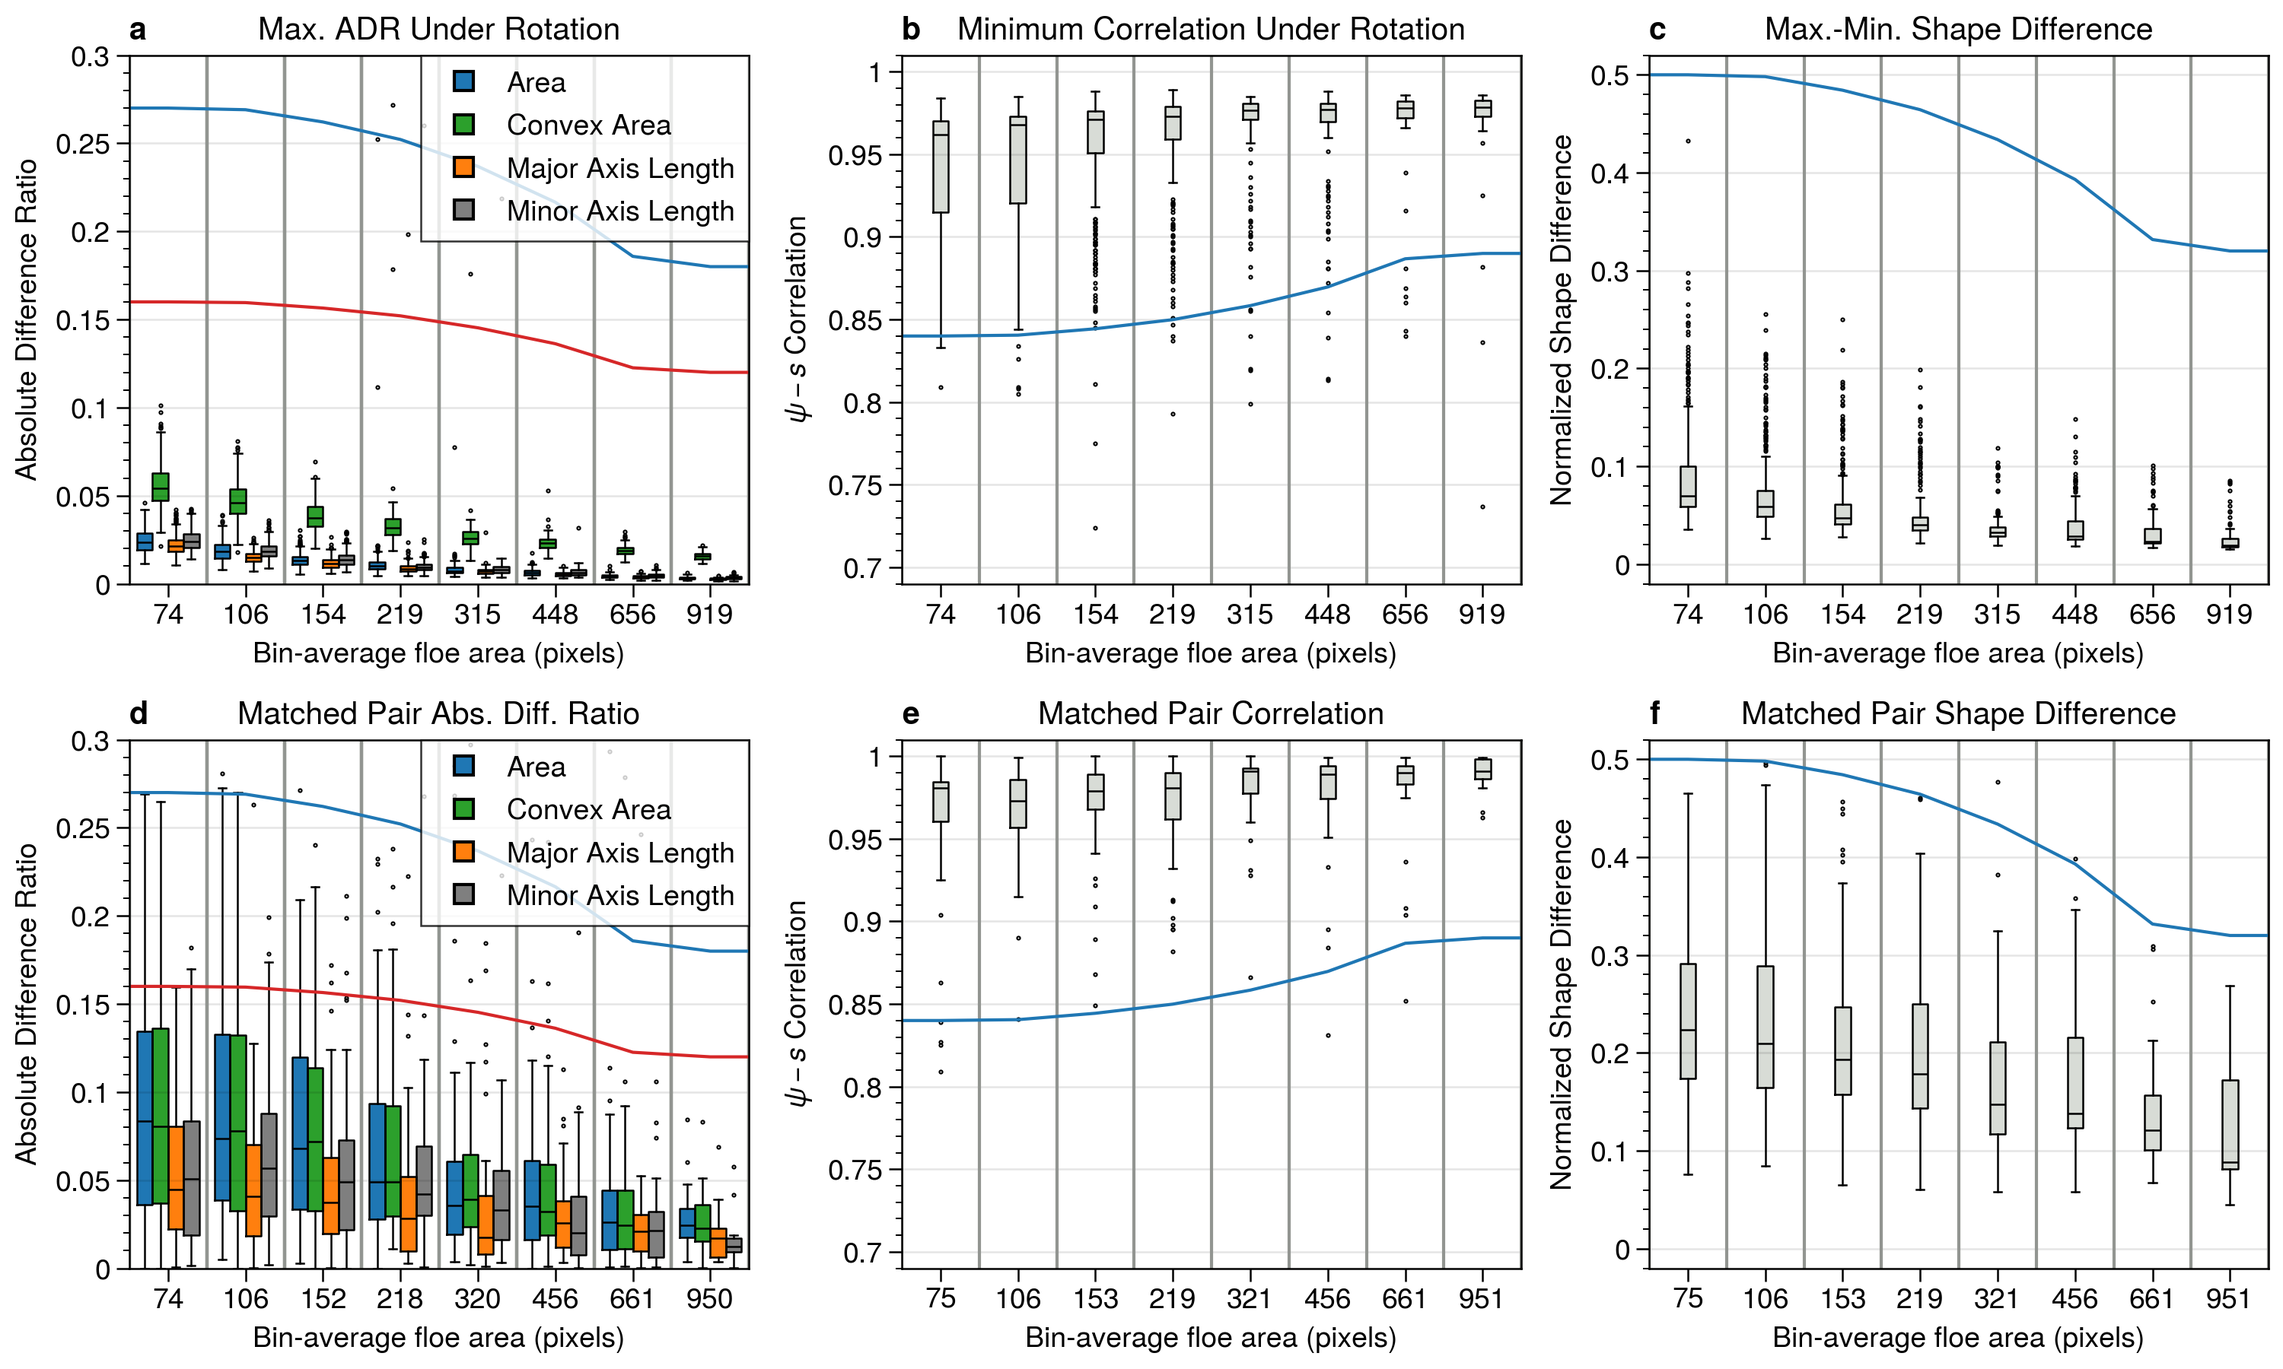
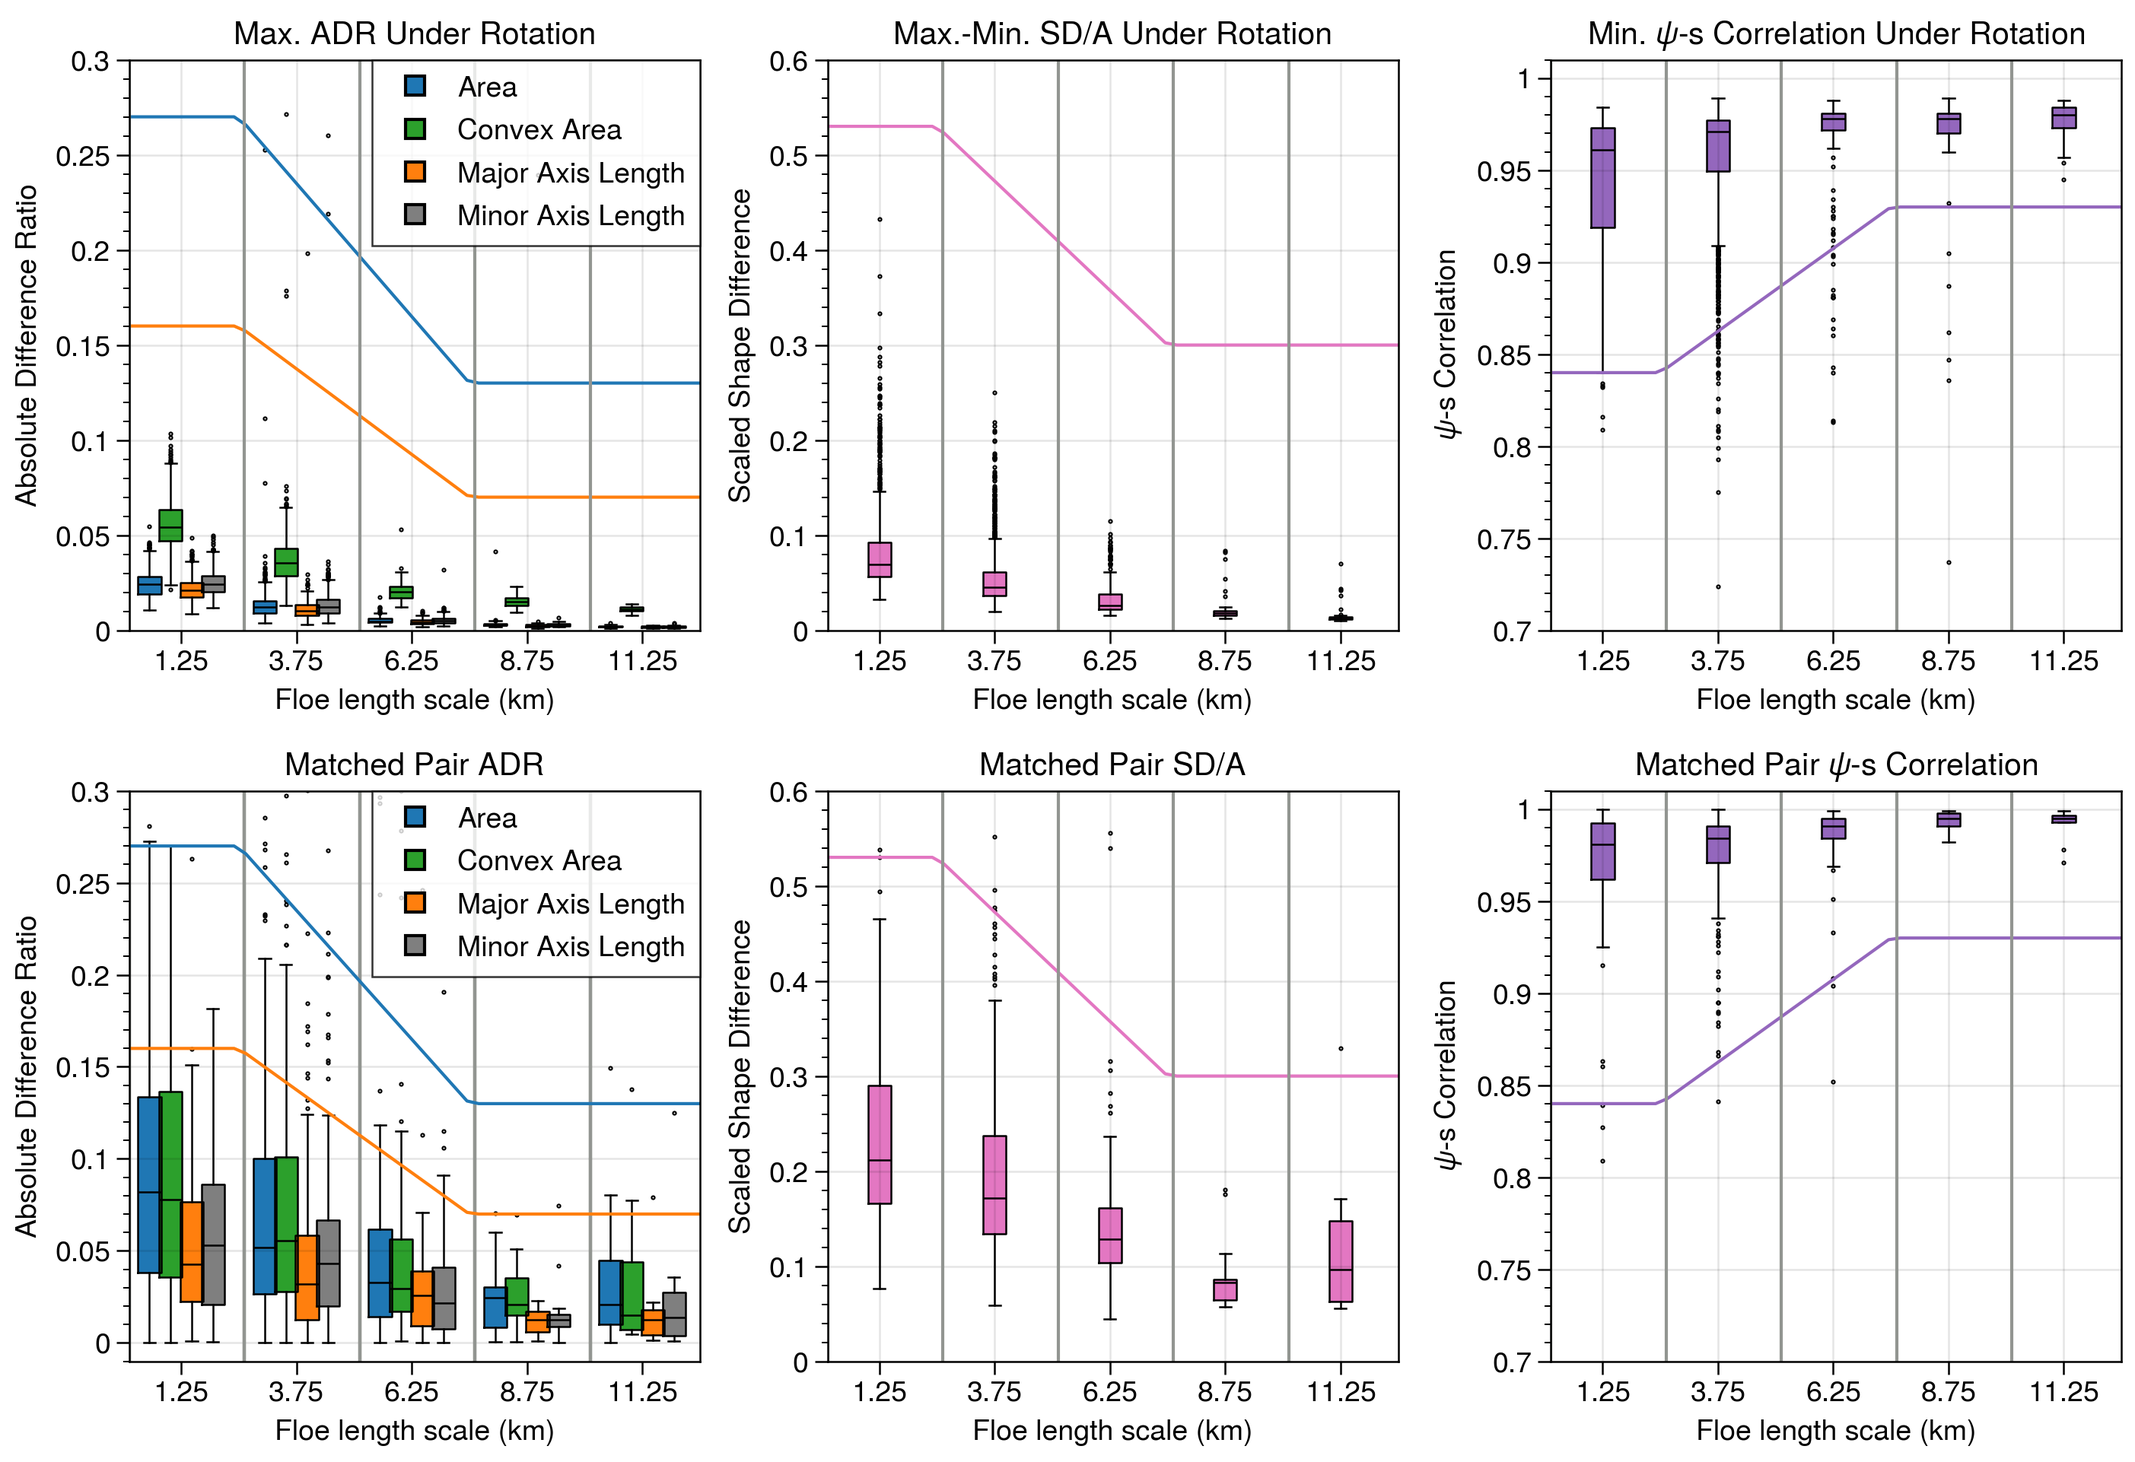
updating style of figures

diff --git a/scripts/plot_adr_sd_psi_s_results.py b/scripts/plot_adr_sd_psi_s_results.py
@@ -3,8 +3,12 @@ import os
 import ultraplot as pplt
 import numpy as np
 
+#### Load Data ####
 # Define the area bin edges
-bins = np.logspace(1, 4, base=10, num=20)
+# bins = np.logspace(1, 4, base=10, num=20)
+# Using length scale bin instead
+bins = np.arange(0, 100, 10)
+bin_centers = 0.5 * (bins[1:] + bins[:-1])
 plot_range = (5.5, 13.5)
 
 # Load floe property tables. First need to run get_floe_property_tables.jl.
@@ -31,7 +35,6 @@ df_terra_props.rename({'label': 'terra_label', 'cloud_fraction': 'terra_cloud_fr
 # Get test/train index data
 df_testtrain = pd.read_csv('../data/validation_dataset_testtrain_split.csv').rename({'Unnamed: 0': 'case'}, axis=1)
 df_testtrain['case_number'] = [str(x).zfill(3) for x in df_testtrain['case_number']]
-
 
 #### Load the rotation data ######
 # First need to run the julia script rotation_test_floe_shapes_ADR.jl
@@ -62,7 +65,9 @@ df_min.columns = df_min.add_prefix('min_', axis=1).columns
 df_init = df_all.loc[df_all.rotation==0, ['floe_id', 'case', 'area', 'L', 'convex_area', 'major_axis_length',
        'minor_axis_length']].set_index('floe_id')
 df_rotation = pd.merge(df_init, df_max, left_index=True, right_index=True).merge(df_min, left_index=True, right_index=True)
-df_rotation['area_bin'] = np.digitize(df_rotation['area'], bins)
+df_rotation['L'] = np.sqrt(df_rotation['area'])
+# df_rotation['area_bin'] = np.digitize(df_rotation['area'], bins)
+df_rotation['length_bin'] = np.digitize(df_rotation['L'], bins)
 
 # Divide into testing and training datasets
 training_idx = df_testtrain.loc[df_testtrain.satellite == 'aqua', ['case_number', 'training']].set_index('case_number')
@@ -70,13 +75,11 @@ df_rotation['training'] = False
 df_rotation.loc[training_idx.loc[df_rotation['case']].values.squeeze(), 'training'] = True
 df_rot = df_rotation.loc[df_rotation.training, :].copy()
 
-rotated_bin_count = df_rot[['area_bin', 'area']].groupby('area_bin').agg(['mean', 'count'])
+rotated_bin_count = df_rot[['length_bin', 'L']].groupby('length_bin').agg(['mean', 'count'])
 rotated_bin_count.columns = ['_'.join(col).strip() for col in rotated_bin_count.columns.values]
-
 
 #### Load the matched pairs data ######
 # First need to run the julia scripts matched_pairs_test_floe_shapes.jl and get_floe_property_tables.jl
-
 data = []
 for fname in os.listdir('../data/matched_pairs_test/'):
     if '.csv' in fname:
@@ -93,7 +96,7 @@ df_matched['normalized_shape_difference'] = df_matched['minimum_shape_difference
 df_matched = df_matched.loc[df_matched.area > 50]
 df_matched["L"] = np.sqrt(df_matched.area)
 
-df_matched['area_bin'] = np.digitize(df_matched['area'], bins)
+df_matched['length_bin'] = np.digitize(df_matched['L'], bins)
 df_matched = df_matched.merge(
     df_aqua_props, left_on=['case', 'aqua_label'], right_on=['case', 'aqua_label']).merge(
     df_terra_props, left_on=['case', 'terra_label'], right_on=['case', 'terra_label'])
@@ -102,92 +105,181 @@ df_matched = df_matched.merge(
 training_idx = df_testtrain.loc[df_testtrain.satellite == 'aqua', ['case_number', 'training']].set_index('case_number')
 df_matched['training'] = training_idx.loc[df_matched['case']].values
 
-df_mg = df_matched.loc[df_matched.training, :].copy()
-
-matched_bin_count = df_matched[['area_bin', 'area']].groupby('area_bin').agg(['mean', 'count'])
+df_mg = df_matched.loc[df_matched.training & (df_matched[['terra_cloud_fraction', 'aqua_cloud_fraction']].max(axis=1) < 0.4), :].copy()
+   
+matched_bin_count = df_matched[['length_bin', 'L']].groupby('length_bin').agg(['mean', 'count'])
 matched_bin_count.columns = ['_'.join(col).strip() for col in matched_bin_count.columns.values]
 
 
-#### Plot ####
-fig, axs = pplt.subplots(width=10, height=6, nrows=2, ncols=3, share=False)
+
+#### Settings #####
+n_min = 20
+length_min = 10
+length_max = 30
+xlims = (0.5, 50)
+x = np.linspace(xlims[0], xlims[1], 50)
+
+#### Threshold Functions #####
+def piecewise_threshold(x, x0, x1, y0, y1):
+    if x < x0:
+        return y0
+    elif x > x1:
+        return y1
+    else:
+        return (y1 - y0)/(x1 - x0)*(x - x1) + y1
+        
+# Update values below based on the calibration results (99th percentile for above / below value)
+adr_area_threshold = lambda x: np.array([piecewise_threshold(y, x0=length_min, x1=length_max, y0=0.27, y1=0.13) for y in x])
+adr_convex_area_threshold = lambda x: np.array([piecewise_threshold(y, length_min, length_max, 0.27, 0.13) for y in x])
+adr_major_axis_threshold = lambda x: np.array([piecewise_threshold(y, length_min, length_max, 0.16, 0.07) for y in x])
+adr_minor_axis_threshold = lambda x: np.array([piecewise_threshold(y,  length_min, length_max, 0.17, 0.11) for y in x])
+scaled_shape_difference_threshold = lambda x: np.array([piecewise_threshold(y, length_min,  length_max, 0.53, 0.30) for y in x])
+psi_s_corr_threshold = lambda x: np.array([piecewise_threshold(y, length_min,  length_max, 0.84, 0.93) for y in x])
+
+
+#### Plotting
+fig, axs = pplt.subplots(nrows=2, ncols=3, share=False)
+
+col_means = rotated_bin_count.loc[:, 'L_mean'].round(2)
+col_counts = rotated_bin_count.loc[:, 'L_count']
+xlims = (0.5, 50)
+###### Rotation ########
+# 1. ADRs
 ax = axs[0, 0]
 h = []
-for var, color, offset in zip(['max_adr_area', 'max_adr_convex_area',
-                       'max_adr_major_axis_length', 'max_adr_minor_axis_length'],
-                      ['tab:blue', 'tab:green', 'tab:orange', 'tab:gray'],
-                             np.linspace(-0.3, 0.3, 4)):
-    plot_data = df_rot.pivot_table(columns='area_bin', values=var, index=df_rot.index)
-    plot_data = plot_data.loc[:, rotated_bin_count['area_count'] > 10]
-    x = plot_data.columns.astype(int)
-    plot_data.columns = plot_data.columns + offset
-    ax.box(plot_data, fillcolor=color,  showfliers=True, marker='.', markersize=1, widths=0.2)
+for var, color, offset in zip(
+    ['max_adr_area', 'max_adr_convex_area', 'max_adr_major_axis_length', 'max_adr_minor_axis_length'],
+    ['tab:blue', 'tab:green', 'tab:orange', 'tab:gray'],
+    np.linspace(-2.75, 2.75, 4)):
+    
+    data = df_rot.pivot_table(columns='length_bin', values=var, index=df_rot.index)
+    data = data.loc[:, col_counts.values > n_min]
+    data.columns = bin_centers[col_counts[col_counts >= n_min].index - 1] + offset
+    ax.box(data, fillcolor=color,  showfliers=True, marker='.', markersize=1, widths=2)
     h.append(ax.plot([],[], m='s', c=color, lw=0, ec='k'))
 
-    # Draw grid lines
-    for xc in x[:-1]:
-        ax.axvline(xc + 0.5, lw=1, color='gray')
-        
-ax.format(xtickminor=False, #xlocator=bin_area_ave.round().values.squeeze(),
-          xlocator=x, xlim=plot_range, ylim=(0, 0.3),
-          xformatter=[str(int(x)) for x in rotated_bin_count.area_mean.round().values.squeeze()], xrotation=0,
-         title='Max.-Min. Abs. Diff. Ratio', xlabel='Bin-average floe area (pixels)', ylabel='Absolute Difference Ratio',
-         xgrid=False)
 
+ax.plot(x, adr_area_threshold(x), color='tab:blue', lw=1, marker='')
+ax.plot(x, adr_major_axis_threshold(x), color='tab:orange', lw=1, marker='')
+
+for xc in bins:
+    ax.axvline(xc + 0.5, lw=1, color='gray')
+
+ax.format(xtickminor=False, #xlocator=bin_area_ave.round().values.squeeze(),
+          xlocator=bin_centers, xlim=xlims, ylim=(0, 0.3),
+          xformatter=[str(int(x) * 0.25) for x in bin_centers], xrotation=0,
+         title='Max. ADR Under Rotation', xlabel='Floe length scale (km)', ylabel='Absolute Difference Ratio',
+         xgrid=True)
 ax.legend(h, ['Area', 'Convex Area', 'Major Axis Length', 'Minor Axis Length'], ncols=1)
 
+# 2. Normalized Shape Difference
+ax = axs[0,1]
+var =  'max_normalized_shape_difference'
+color = 'tab:pink'
+data = df_rot.pivot_table(columns='length_bin', values=var, index=df_rot.index)
+data = data.loc[:, col_counts.values >= n_min]
+data.columns = bin_centers[col_counts[col_counts >= n_min].index - 1]
+ax.box(data, fillcolor=color,  showfliers=True, marker='.', markersize=1, widths=2)
+ax.plot(x, scaled_shape_difference_threshold(x), color=color, lw=1, marker='')
+
+
+for xc in bins:
+    ax.axvline(xc + 0.5, lw=1, color='gray')
+
+ax.format(xtickminor=False, #xlocator=bin_area_ave.round().values.squeeze(),
+          xlocator=bin_centers, xlim=xlims, ylim=(0, 0.6),
+          xformatter=[str(int(x) * 0.25) for x in bin_centers], xrotation=0,
+         title='Max.-Min. SD/A Under Rotation', xlabel='Floe length scale (km)', ylabel='Scaled Shape Difference',
+         xgrid=True)
+
+# 3. Psi-s Correlation
+ax = axs[0, 2]
+var = 'min_psi_s_correlation'
+color = 'tab:purple'
+data = df_rot.pivot_table(columns='length_bin', values=var, index=df_rot.index)
+data = data.loc[:, col_counts.values >= n_min]
+data.columns = bin_centers[col_counts[col_counts >= n_min].index - 1]
+ax.box(data, fillcolor=color,  showfliers=True, marker='.', markersize=1, widths=2)
+ax.plot(x, psi_s_corr_threshold(x), color=color, lw=1, marker='')
+
+
+for xc in bins:
+    ax.axvline(xc + 0.5, lw=1, color='gray')
+
+ax.format(xtickminor=False, #xlocator=bin_area_ave.round().values.squeeze(),
+          xlocator=bin_centers, xlim=xlims, ylim=(0.7, 1.01),
+          xformatter=[str(int(x) * 0.25) for x in bin_centers], xrotation=0,
+         title='Min. $\\psi$-s Correlation Under Rotation', xlabel='Floe length scale (km)', ylabel='$\\psi$-s Correlation',
+         xgrid=True)
+
+##### Matched Pairs ######
+col_means = matched_bin_count.loc[:, 'L_mean'].round(2)
+col_counts = matched_bin_count.loc[:, 'L_count']
+xlims = (0.5, 50)
+
+# 1. ADRs
 ax = axs[1, 0]
 h = []
-for var, color, offset in zip(['adr_area', 'adr_convex_area', 'adr_major_axis_length', 'adr_minor_axis_length'],
-                      ['tab:blue', 'tab:green', 'tab:orange', 'tab:gray'],
-                             np.linspace(-0.3, 0.3, 4)):
+for var, color, offset in zip(
+    ['adr_area', 'adr_convex_area', 'adr_major_axis_length', 'adr_minor_axis_length'],
+    ['tab:blue', 'tab:green', 'tab:orange', 'tab:gray'],
+    np.linspace(-2.75, 2.75, 4)):
 
-    idx = df_mg[['terra_cloud_fraction', 'aqua_cloud_fraction']].max(axis=1) < 0.2
-    
-    plot_data = df_mg.loc[idx, :].pivot_table(columns='area_bin', values=var, index=df_mg.loc[idx, :].index)
-    plot_data = plot_data.loc[:, matched_bin_count['area_count'] > 10]
-    x = plot_data.columns.astype(int)
-    plot_data.columns = plot_data.columns + offset
-    ax.box(plot_data, fillcolor=color,  showfliers=True, marker='.', markersize=1,  widths=0.2)
+    data = df_mg.pivot_table(columns='length_bin', values=var, index=df_mg.index)
+    data = data.loc[:, [x for x in data.columns if col_counts[x] >= n_min]]
+    data.columns = bin_centers[col_counts[col_counts >= n_min].index - 1] + offset
+    ax.box(data, fillcolor=color,  showfliers=True, marker='.', markersize=1, widths=2)
     h.append(ax.plot([],[], m='s', c=color, lw=0, ec='k'))
-    for xc in x[:-1]:
+    
+    for xc in bins:
         ax.axvline(xc + 0.5, lw=1, color='gray')
-        
+ax.plot(x, adr_area_threshold(x), color='tab:blue', lw=1, marker='')
+ax.plot(x, adr_major_axis_threshold(x), color='tab:orange', lw=1, marker='')
+
 ax.format(xtickminor=False, #xlocator=bin_area_ave.round().values.squeeze(),
-          xlocator=x, xlim=plot_range, ylim=(0, 0.3),
-          xformatter=[str(int(x)) for x in matched_bin_count.area_mean.round(1).values.squeeze()], xrotation=0,
-         title='Matched Pair Abs. Diff. Ratio', xlabel='Bin-average floe area (pixels)', ylabel='Absolute Difference Ratio',
-         xgrid=False)
+          xlocator=bin_centers, xlim=xlims, ylim=(-0.01, 0.3),
+          xformatter=[str(int(x) * 0.25) for x in bin_centers], xrotation=0,
+          title='Matched Pair ADR', xlabel='Floe length scale (km)', ylabel='Absolute Difference Ratio',
+          xgrid=False)
 
 ax.legend(h, ['Area', 'Convex Area', 'Major Axis Length', 'Minor Axis Length'], ncols=1)
 
+# 2. Normalized Shape Difference
+ax = axs[1,1]
+var =  'normalized_shape_difference'
+color = 'tab:pink'
+data = df_mg.pivot_table(columns='length_bin', values=var, index=df_mg.index)
+data = data.loc[:, [x for x in data.columns if col_counts[x] >= n_min]]
+data.columns = bin_centers[col_counts[col_counts >= n_min].index - 1]
+ax.box(data, fillcolor=color,  showfliers=True, marker='.', markersize=1, widths=2)
+ax.plot(x, scaled_shape_difference_threshold(x), color=color, lw=1, marker='')
+for xc in bins:
+    ax.axvline(xc + 0.5, lw=1, color='gray')
 
-for ax, var, color, dataframe, bin_counts in zip(
-        [axs[0,1], axs[0,2], axs[1,1], axs[1,2]],
-        ['min_psi_s_correlation', 'max_normalized_shape_difference', 'psi_s_correlation', 'normalized_shape_difference'],
-        ['light gray', 'light gray', 'light gray', 'light gray'],
-        [df_rotation.loc[df_rotation.training, :], df_rotation.loc[df_rotation.training, :],
-         df_matched.loc[df_matched.training, :], df_matched.loc[df_matched.training, :]],
-        [rotated_bin_count, rotated_bin_count, matched_bin_count, matched_bin_count]):
+ax.format(xtickminor=False, #xlocator=bin_area_ave.round().values.squeeze(),
+          xlocator=bin_centers, xlim=xlims, ylim=(0, 0.6),
+          xformatter=[str(int(x) * 0.25) for x in bin_centers], xrotation=0,
+         title='Matched Pair SD/A', xlabel='Floe length scale (km)', ylabel='Scaled Shape Difference',
+         xgrid=True)
 
-    plot_data = dataframe.pivot_table(columns='area_bin', values=var, index=dataframe.index)
-    plot_data = plot_data.loc[:, bin_counts['area_count'] > 10]
-    x = plot_data.columns.astype(int)
-    ax.box(plot_data, fillcolor=color, showfliers=True, marker='.', markersize=1, widths=0.2)
-    h.append(ax.plot([],[], m='s', c=color, lw=0, ec='k'))
 
-    # Draw grid lines
-    for xc in x[:-1]:
-        ax.axvline(xc + 0.5, lw=1, color='gray')
-        
-    ax.format(xtickminor=False, 
-              xlocator=x, xlim=plot_range,
-              xformatter=[str(int(x)) for x in bin_counts.area_mean.round().values.squeeze()], xrotation=0,
-              xlabel='Bin-average floe area (pixels)',
-              xgrid=False, abc=True)
-axs[0,1].format(ylabel=r'$\psi-s$ Correlation', title='Max.-Min. Correlation', ylim=(0.69, 1.01))
-axs[1,1].format(ylabel=r'$\psi-s$ Correlation', title='Matched Pair Correlation', ylim=(0.69, 1.01))
-axs[0,2].format(ylabel='Normalized Shape Difference', title='Max.-Min. Shape Difference', ylim=(-0.02, 0.52))
-axs[1,2].format(ylabel='Normalized Shape Difference', title='Matched Pair Shape Difference', ylim=(-0.02, 0.52))
+# 2. Psi-S Correlation
+ax = axs[1,2]
+var =  'psi_s_correlation'
+color = 'tab:purple'
+data = df_mg.pivot_table(columns='length_bin', values=var, index=df_mg.index)
+data = data.loc[:, [x for x in data.columns if col_counts[x] >= n_min]]
+data.columns = bin_centers[col_counts[col_counts >= n_min].index - 1]
+ax.box(data, fillcolor=color,  showfliers=True, marker='.', markersize=1, widths=2)
+ax.plot(x, psi_s_corr_threshold(x), color=color, lw=1, marker='')
+for xc in bins:
+    ax.axvline(xc + 0.5, lw=1, color='gray')
 
-fig.format(abc=True)
+ax.format(xtickminor=False, #xlocator=bin_area_ave.round().values.squeeze(),
+          xlocator=bin_centers, xlim=xlims, ylim=(0.7, 1.01),
+          xformatter=[str(int(x) * 0.25) for x in bin_centers], xrotation=0,
+         title='Matched Pair $\\psi$-s Correlation', xlabel='Floe length scale (km)', ylabel='$\\psi$-s Correlation',
+         xgrid=True)
+
+# TBD: Determine where the small / large cutoffs should be
 fig.save('../figures/fig_XX_ADR_psi-s_normSD.png', dpi=300)
